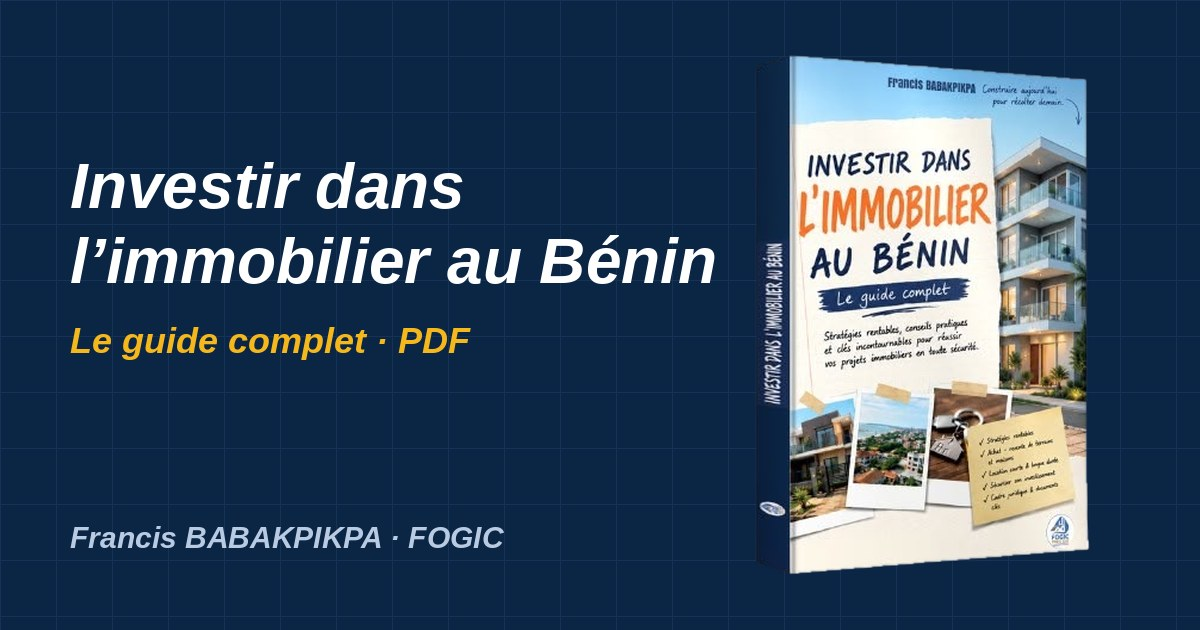
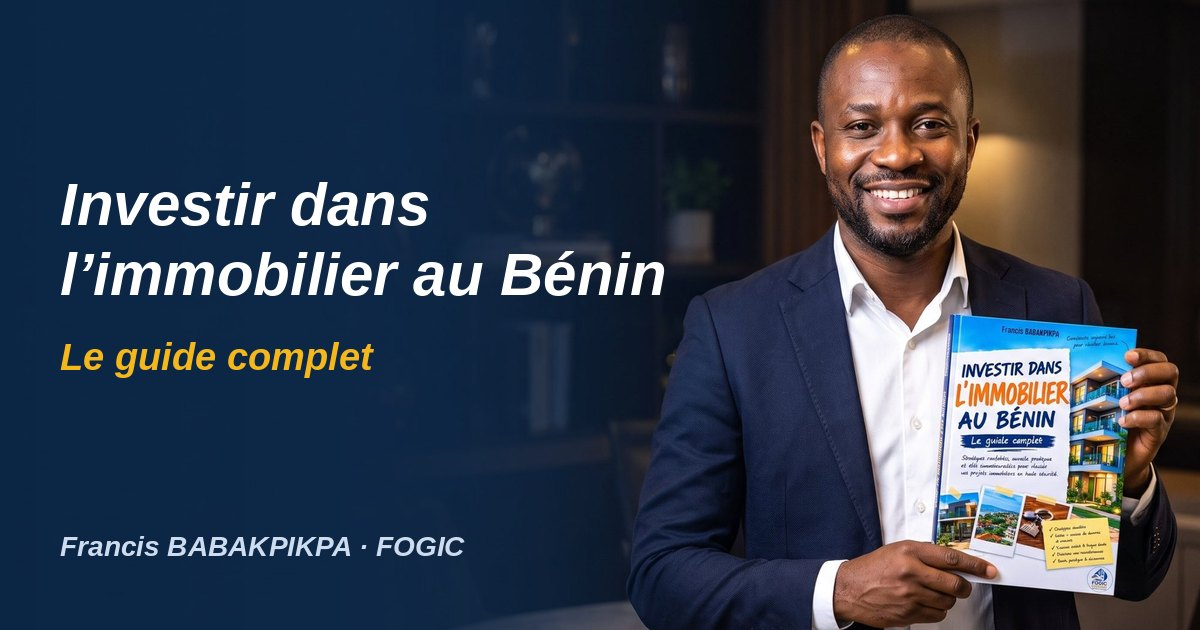
MAJ

diff --git a/app/page.tsx b/app/page.tsx
@@ -3,9 +3,10 @@ import Reveal from "@/components/Reveal";
 import Faq, { type FaqItem } from "@/components/Faq";
 import CountUp from "@/components/CountUp";
 import Dock from "@/components/Dock";
+import MobileMenu from "@/components/MobileMenu";
 import PromoPrice, { MiniCountdown, PromoBanner } from "@/components/Promo";
 import { testimonials } from "@/lib/testimonials";
-import { CHARIOW_URL, PRODUCT_IMAGE, SITE, STATS, WA_ACCOMPAGNEMENT, WA_DEDICACE } from "@/lib/config";
+import { CHARIOW_URL, HERO_IMAGE, OFFER_IMAGE, SITE, STATS, WA_ACCOMPAGNEMENT, WA_DEDICACE } from "@/lib/config";
 
 const preparer = [
   { t: "L’achat d’un terrain", d: "Les précautions à prendre et les vérifications à envisager avant de t’engager." },
@@ -64,7 +65,7 @@ const plans: {
 
 const statCards = [
   STATS.buyers != null && { v: `${STATS.buyers}+`, l: "lecteurs ont déjà acheté le guide", count: { to: STATS.buyers, suffix: "+" } },
-  STATS.positiveReviews && { v: STATS.positiveReviews, l: "d’avis positifs" },
+  STATS.reviews != null && { v: `${STATS.reviews}+`, l: "avis déjà reçus", count: { to: STATS.reviews, suffix: "+" } },
   { v: "148", l: "pages de contenu, en PDF", count: { to: 148, suffix: "" } },
   { v: "0 attente", l: "accès immédiat après l’achat du PDF", accent: true },
 ].filter(Boolean) as { v: string; l: string; accent?: boolean; count?: { to: number; suffix: string } }[];
@@ -124,7 +125,8 @@ export default function Page() {
             <a href="#offre">Formules</a>
             <a href="#faq">Questions</a>
           </nav>
-          <Cta>Obtenir le guide</Cta>
+          <a className="btn btn-gold nav-cta" href={CHARIOW_URL}>Obtenir le guide</a>
+          <MobileMenu />
         </div>
       </header>
       </div>
@@ -156,19 +158,17 @@ export default function Page() {
                 Par <b>{SITE.author}</b>, fondateur de {SITE.brand}
               </p>
             </div>
-            <div className="hero-book intro-book">
-              <div className="book-glow" aria-hidden />
-              <Image
-                src={PRODUCT_IMAGE.src}
-                alt="Couverture du guide « Investir dans l’immobilier au Bénin — Le guide complet »"
-                width={PRODUCT_IMAGE.width}
-                height={PRODUCT_IMAGE.height}
-                priority
-                className="book-img"
-                sizes="(max-width: 860px) 70vw, 380px"
-              />
-            </div>
           </div>
+        <div className="hero-photo intro-book">
+          <Image
+            src={HERO_IMAGE.src}
+            alt="Un homme souriant tient le guide « Investir dans l’immobilier au Bénin — Le guide complet »"
+            fill
+            priority
+            sizes="100vw"
+            className="hero-photo-img"
+          />
+        </div>
         </section>
 
         {/* CHIFFRES */}
@@ -368,13 +368,13 @@ export default function Page() {
             </Reveal>
 
             <div className="offer">
-              <Reveal className="offer-book">
+              <Reveal className="offer-photo">
                 <Image
-                  src={PRODUCT_IMAGE.src}
-                  alt="Le guide « Investir dans l’immobilier au Bénin — Le guide complet »"
-                  width={PRODUCT_IMAGE.width}
-                  height={PRODUCT_IMAGE.height}
-                  sizes="(max-width: 860px) 60vw, 300px"
+                  src={OFFER_IMAGE.src}
+                  alt="Un homme souriant présente le guide « Investir dans l’immobilier au Bénin »"
+                  fill
+                  sizes="(max-width: 860px) 100vw, 440px"
+                  className="offer-photo-img"
                 />
               </Reveal>
               <Reveal delay={0.1} className="offer-card">

diff --git a/app/globals.css b/app/globals.css
@@ -51,7 +51,7 @@ a { color: inherit; }
 .btn-navy { background: var(--navy); color: #fff; }
 
 /* Nav */
-.nav { background: rgba(255,255,255,.88); backdrop-filter: blur(12px); border-bottom: 1px solid var(--line); }
+.nav { position: relative; background: rgba(255,255,255,.88); backdrop-filter: blur(12px); border-bottom: 1px solid var(--line); }
 .nav-in { display: flex; align-items: center; justify-content: space-between; gap: 1rem; padding-block: .7rem; }
 .brand { display: flex; align-items: center; gap: .65rem; text-decoration: none; }
 .brand-logo { width: 46px; height: 46px; border-radius: 50%; flex: none; }
@@ -339,4 +339,39 @@ a { color: inherit; }
 }
 @media (prefers-reduced-motion: reduce) {
   .ribbon::after, .ribbon-dot, .promo-kicker { animation: none; }
+}
+
+/* ===== Menu mobile ===== */
+.nav-cta { display: none; }
+.mm { display: block; }
+.burger { width: 46px; height: 46px; padding: 0; border: 1px solid var(--line); border-radius: 14px; background: #fff; display: grid; place-content: center; gap: 5px; cursor: pointer; }
+.burger span { display: block; width: 22px; height: 2.5px; background: var(--navy); border-radius: 2px; transition: transform .25s ease, opacity .2s ease; }
+.burger[aria-expanded="true"] span:nth-child(1) { transform: translateY(7.5px) rotate(45deg); }
+.burger[aria-expanded="true"] span:nth-child(2) { opacity: 0; }
+.burger[aria-expanded="true"] span:nth-child(3) { transform: translateY(-7.5px) rotate(-45deg); }
+.mm-panel { position: absolute; left: 0; right: 0; top: 100%; background: #fff; border-bottom: 1px solid var(--line); box-shadow: 0 24px 40px -20px rgba(11,37,69,.35); padding: .4rem 0 1.2rem; max-height: calc(100vh - 7rem); overflow-y: auto; }
+.mm-link { display: flex; align-items: center; justify-content: space-between; min-height: 52px; padding: .6rem .25rem; font-weight: 700; font-size: 1.1rem; color: var(--navy); text-decoration: none; border-bottom: 1px solid var(--line); }
+.mm-link span { color: var(--gold-d); }
+.mm-panel .btn { width: 100%; margin-top: 1rem; padding: .95rem 1.5rem; font-size: 1rem; }
+@media (min-width: 860px) {
+  .mm { display: none; }
+  .nav-cta { display: inline-flex; }
+}
+@media (prefers-reduced-motion: reduce) { .burger span { transition: none; } }
+
+/* ===== Photos hero + formule ===== */
+.hero-in { padding-block: 3rem 1rem; }
+.hero-photo { position: relative; width: 100%; aspect-ratio: 5 / 5.2; overflow: hidden; margin-top: .5rem; }
+.hero-photo-img { object-fit: cover; object-position: 100% 50%; }
+.hero-photo::after { content: ""; position: absolute; inset: 0; pointer-events: none; background: linear-gradient(180deg, var(--navy) 0%, rgba(11,37,69,0) 38%), linear-gradient(0deg, rgba(11,37,69,.35), transparent 30%); }
+.offer-photo { position: relative; aspect-ratio: 1 / 1; width: min(100%, 460px); margin-inline: auto; border-radius: 24px; overflow: hidden; box-shadow: 0 30px 50px -30px rgba(11,37,69,.55); }
+.offer-photo-img { object-fit: cover; object-position: 56% 50%; }
+@media (min-width: 860px) {
+  .hero { min-height: 680px; display: flex; align-items: center; }
+  .hero-grid { display: none; }
+  .hero-photo { position: absolute; inset: 0; aspect-ratio: auto; margin: 0; z-index: 0; }
+  .hero-photo-img { object-position: right 30%; }
+  .hero-photo::after { background: linear-gradient(90deg, var(--navy) 0%, rgba(11,37,69,.88) 30%, rgba(11,37,69,0) 62%); }
+  .hero-in { position: relative; z-index: 2; grid-template-columns: 1fr; padding-block: 5rem 6rem; }
+  .hero-copy { max-width: 560px; }
 }

diff --git a/components/MobileMenu.tsx b/components/MobileMenu.tsx
@@ -1,0 +1,78 @@
+"use client";
+import { useEffect, useRef, useState } from "react";
+import { AnimatePresence, motion } from "framer-motion";
+import { CHARIOW_URL } from "@/lib/config";
+
+const links = [
+  ["#guide", "Le guide"],
+  ["#auteur", "L’auteur"],
+  ["#avis", "Avis"],
+  ["#offre", "Formules"],
+  ["#faq", "Questions"],
+];
+
+export default function MobileMenu() {
+  const [open, setOpen] = useState(false);
+  const ref = useRef<HTMLDivElement>(null);
+
+  useEffect(() => {
+    if (!open) return;
+    const onKey = (e: KeyboardEvent) => e.key === "Escape" && setOpen(false);
+    const onOutside = (e: Event) => {
+      if (ref.current && !ref.current.contains(e.target as Node)) setOpen(false);
+    };
+    document.addEventListener("keydown", onKey);
+    document.addEventListener("pointerdown", onOutside);
+    return () => {
+      document.removeEventListener("keydown", onKey);
+      document.removeEventListener("pointerdown", onOutside);
+    };
+  }, [open]);
+
+  return (
+    <div className="mm" ref={ref}>
+      <button
+        type="button"
+        className="burger"
+        aria-label={open ? "Fermer le menu" : "Ouvrir le menu"}
+        aria-expanded={open}
+        aria-controls="mm-panel"
+        onClick={() => setOpen((o) => !o)}
+      >
+        <span /><span /><span />
+      </button>
+      <AnimatePresence>
+        {open && (
+          <motion.div
+            id="mm-panel"
+            className="mm-panel"
+            initial={{ opacity: 0, y: -10 }}
+            animate={{ opacity: 1, y: 0 }}
+            exit={{ opacity: 0, y: -10 }}
+            transition={{ duration: 0.22, ease: "easeOut" }}
+          >
+            <nav className="wrap" aria-label="Menu principal">
+              {links.map(([href, label], i) => (
+                <motion.a
+                  key={href}
+                  href={href}
+                  className="mm-link"
+                  onClick={() => setOpen(false)}
+                  initial={{ opacity: 0, x: -12 }}
+                  animate={{ opacity: 1, x: 0 }}
+                  transition={{ delay: 0.04 * i, duration: 0.25 }}
+                >
+                  {label}
+                  <span aria-hidden>→</span>
+                </motion.a>
+              ))}
+              <a className="btn btn-gold" href={CHARIOW_URL} onClick={() => setOpen(false)}>
+                Obtenir le guide
+              </a>
+            </nav>
+          </motion.div>
+        )}
+      </AnimatePresence>
+    </div>
+  );
+}

diff --git a/lib/config.ts b/lib/config.ts
@@ -34,6 +34,11 @@ export const WA_ACCOMPAGNEMENT = waLink(
 // puis changer src, width et height ci-dessous (dimensions réelles de l'image).
 export const PRODUCT_IMAGE = { src: "/product-book.png", width: 281, height: 436 };
 
+// Image du hero (en haut de page) et image de la section « Choisis ta formule ».
+// Pour changer : déposer le fichier dans /public et mettre ses dimensions réelles (px).
+export const HERO_IMAGE = { src: "/hero-photo.jpg", width: 2000, height: 1116 };
+export const OFFER_IMAGE = { src: "/offer-photo.jpg", width: 1800, height: 1004 };
+
 // ---- OFFRE PROMOTIONNELLE ----
 // ⚠ endsAt : date/heure RÉELLE de fin de la promo (fuseau Bénin, +01:00).
 // Pour une promo de 12 h : mettre l'heure de lancement + 12 h.
@@ -50,5 +55,5 @@ export const PROMO = {
 // À mettre à jour à la main quand le total change. null = la carte est masquée.
 export const STATS = {
   buyers: 200 as number | null,
-  positiveReviews: null as string | null, // ex : "100%" → « 100% d’avis positifs »
+  reviews: 30 as number | null, // nombre d’avis reçus (« 30+ avis déjà reçus »)
 };

diff --git a/README.md b/README.md
@@ -24,4 +24,4 @@ Vercel : importer le dossier, aucune variable d’environnement requise.
 
 ## Promo et chiffres
 - `lib/config.ts` → `PROMO.endsAt` : heure réelle de fin de la promo (+01:00). Après cette heure, le site affiche seul les prix normaux (16 000 / 55 000) : modifier aussi les prix sur Chariow.
-- `STATS.buyers` : total des ventes tous canaux (Chariow + guides physiques), à mettre à jour à la main. `STATS.positiveReviews` : null = carte masquée.
+- `STATS.buyers` : total des ventes tous canaux (Chariow + guides physiques), à mettre à jour à la main. `STATS.reviews` (nombre d’avis reçus) : null = carte masquée.
